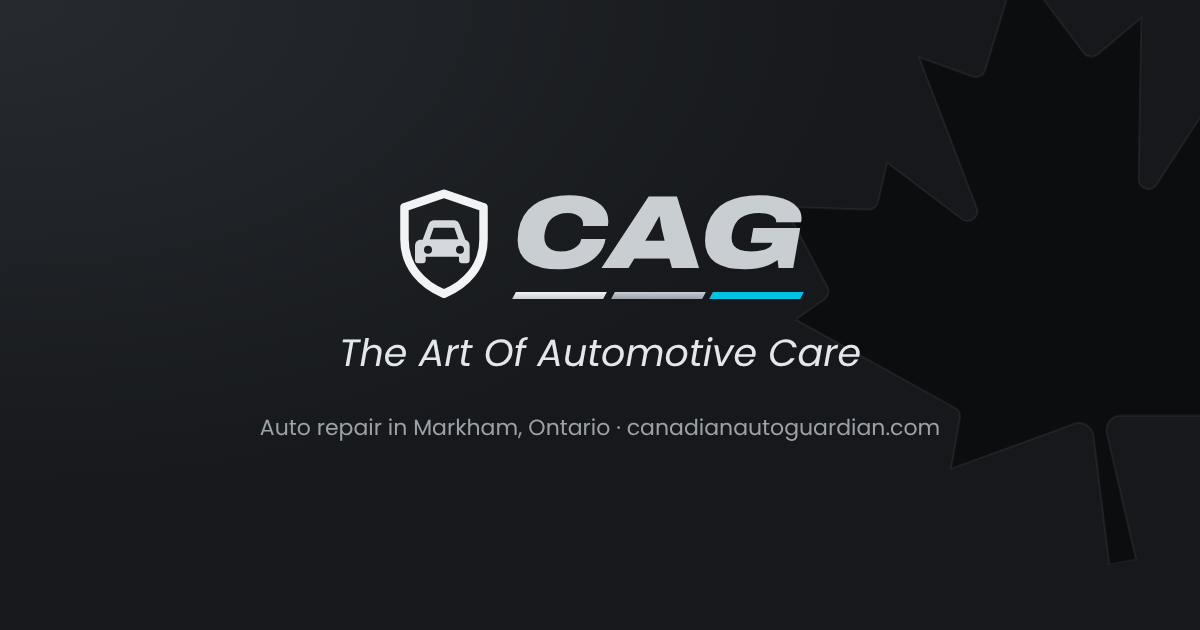
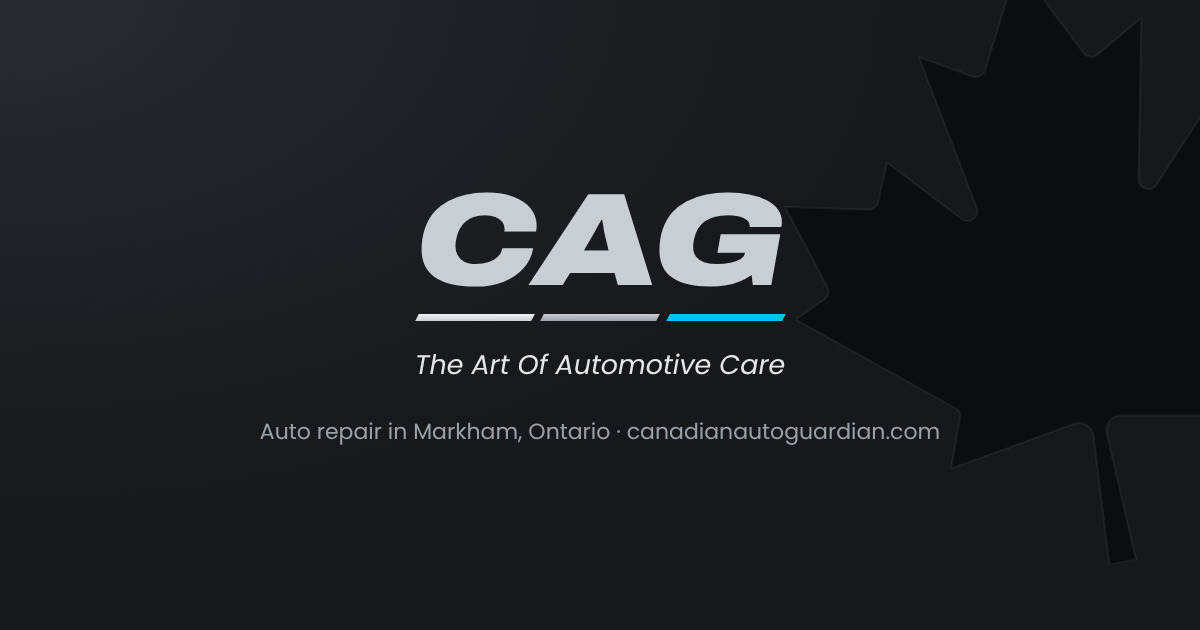
Add files via upload

Changed region(s): [[0.3083, 0.3016, 0.6783, 0.5127], [0.2775, 0.5127, 0.74, 0.6032], [0.2158, 0.6635, 0.8017, 0.7238]]

diff --git a/index.html b/index.html
@@ -18,8 +18,9 @@
 <meta property="og:image:alt" content="Canadian Auto Guardian: The Art Of Automotive Care. Auto repair in Markham, Ontario.">
 <meta name="twitter:card" content="summary_large_image">
 <meta name="twitter:image" content="https://www.canadianautoguardian.com/og-image.png">
-<link rel="icon" href="/favicon.svg" type="image/svg+xml">
-<link rel="stylesheet" href="/styles.css">
+<link rel="icon" href="/favicon.png" type="image/png">
+<link rel="apple-touch-icon" href="/apple-touch-icon.png">
+<link rel="stylesheet" href="/styles.css?v=20261103b">
 <script type="application/ld+json">
 {
   "@context": "https://schema.org",
@@ -119,7 +120,7 @@
 <body>
 <header class="site">
   <div class="nav">
-    <a href="/" class="brand" aria-label="Canadian Auto Guardian home"><svg viewBox="0 0 34 40" aria-hidden="true" xmlns="http://www.w3.org/2000/svg"><path d="M17 2.4 L31 7.2 V18.5 C31 28 24.8 34.6 17 37.8 C9.2 34.6 3 28 3 18.5 V7.2 Z" fill="none" stroke="#F1F3F5" stroke-width="3" stroke-linejoin="round"/><path d="M10.6 19.4 l1.7-4.6 a2 2 0 0 1 1.9-1.3 h5.6 a2 2 0 0 1 1.9 1.3 l1.7 4.6 a2 2 0 0 1 1.3 1.9 v4.2 a.9.9 0 0 1-.9.9 h-1.4 a.9.9 0 0 1-.9-.9 v-1 h-10 v1 a.9.9 0 0 1-.9.9 h-1.4 a.9.9 0 0 1-.9-.9 v-4.2 a2 2 0 0 1 1.3-1.9 Z M12.7 19.2 h8.6 l-1.2-3.4 h-6.2 Z M12.2 21.2 a1.2 1.2 0 1 0 0 2.4 a1.2 1.2 0 1 0 0-2.4 Z M21.8 21.2 a1.2 1.2 0 1 0 0 2.4 a1.2 1.2 0 1 0 0-2.4 Z" fill="#D5D9DD" fill-rule="evenodd" transform="translate(17 20.6) scale(1.18) translate(-17 -21)"/></svg><span class="wordmark"><span class="wm-cag">CAG</span><span class="wm-stripes"><i></i><i></i><i></i></span><span class="wm-name wm-slogan">The Art Of Automotive Care</span></span></a>
+    <a href="/" class="brand" aria-label="Canadian Auto Guardian home"><span class="wordmark"><span class="wm-cag">CAG</span><span class="wm-stripes"><i></i><i></i><i></i></span><span class="wm-name wm-slogan">The Art Of Automotive Care</span></span></a>
     <ul class="nav-links" id="nav-links">
       <li><a href="/" aria-current="page">Home</a></li>
       <li><a href="/services">Services</a></li>
@@ -212,7 +213,7 @@
   <div class="wrap">
     <div class="footer-grid">
       <div>
-        <a href="/" class="brand" aria-label="Canadian Auto Guardian home"><svg viewBox="0 0 34 40" aria-hidden="true" xmlns="http://www.w3.org/2000/svg"><path d="M17 2.4 L31 7.2 V18.5 C31 28 24.8 34.6 17 37.8 C9.2 34.6 3 28 3 18.5 V7.2 Z" fill="none" stroke="#F1F3F5" stroke-width="3" stroke-linejoin="round"/><path d="M10.6 19.4 l1.7-4.6 a2 2 0 0 1 1.9-1.3 h5.6 a2 2 0 0 1 1.9 1.3 l1.7 4.6 a2 2 0 0 1 1.3 1.9 v4.2 a.9.9 0 0 1-.9.9 h-1.4 a.9.9 0 0 1-.9-.9 v-1 h-10 v1 a.9.9 0 0 1-.9.9 h-1.4 a.9.9 0 0 1-.9-.9 v-4.2 a2 2 0 0 1 1.3-1.9 Z M12.7 19.2 h8.6 l-1.2-3.4 h-6.2 Z M12.2 21.2 a1.2 1.2 0 1 0 0 2.4 a1.2 1.2 0 1 0 0-2.4 Z M21.8 21.2 a1.2 1.2 0 1 0 0 2.4 a1.2 1.2 0 1 0 0-2.4 Z" fill="#D5D9DD" fill-rule="evenodd" transform="translate(17 20.6) scale(1.18) translate(-17 -21)"/></svg><span class="wordmark"><span class="wm-cag">CAG</span><span class="wm-stripes"><i></i><i></i><i></i></span><span class="wm-name wm-slogan">The Art Of Automotive Care</span></span></a>
+        <a href="/" class="brand" aria-label="Canadian Auto Guardian home"><span class="wordmark"><span class="wm-cag">CAG</span><span class="wm-stripes"><i></i><i></i><i></i></span><span class="wm-name wm-slogan">The Art Of Automotive Care</span></span></a>
         <p style="margin-top:14px;">Your trusted auto repair shop in Markham, Ontario.</p>
       </div>
       <div>

diff --git a/services.html b/services.html
@@ -18,8 +18,9 @@
 <meta property="og:image:alt" content="Canadian Auto Guardian: The Art Of Automotive Care. Auto repair in Markham, Ontario.">
 <meta name="twitter:card" content="summary_large_image">
 <meta name="twitter:image" content="https://www.canadianautoguardian.com/og-image.png">
-<link rel="icon" href="/favicon.svg" type="image/svg+xml">
-<link rel="stylesheet" href="/styles.css">
+<link rel="icon" href="/favicon.png" type="image/png">
+<link rel="apple-touch-icon" href="/apple-touch-icon.png">
+<link rel="stylesheet" href="/styles.css?v=20261103b">
 <script type="application/ld+json">
 {
   "@context": "https://schema.org",
@@ -63,7 +64,7 @@
 <body>
 <header class="site">
   <div class="nav">
-    <a href="/" class="brand" aria-label="Canadian Auto Guardian home"><svg viewBox="0 0 34 40" aria-hidden="true" xmlns="http://www.w3.org/2000/svg"><path d="M17 2.4 L31 7.2 V18.5 C31 28 24.8 34.6 17 37.8 C9.2 34.6 3 28 3 18.5 V7.2 Z" fill="none" stroke="#F1F3F5" stroke-width="3" stroke-linejoin="round"/><path d="M10.6 19.4 l1.7-4.6 a2 2 0 0 1 1.9-1.3 h5.6 a2 2 0 0 1 1.9 1.3 l1.7 4.6 a2 2 0 0 1 1.3 1.9 v4.2 a.9.9 0 0 1-.9.9 h-1.4 a.9.9 0 0 1-.9-.9 v-1 h-10 v1 a.9.9 0 0 1-.9.9 h-1.4 a.9.9 0 0 1-.9-.9 v-4.2 a2 2 0 0 1 1.3-1.9 Z M12.7 19.2 h8.6 l-1.2-3.4 h-6.2 Z M12.2 21.2 a1.2 1.2 0 1 0 0 2.4 a1.2 1.2 0 1 0 0-2.4 Z M21.8 21.2 a1.2 1.2 0 1 0 0 2.4 a1.2 1.2 0 1 0 0-2.4 Z" fill="#D5D9DD" fill-rule="evenodd" transform="translate(17 20.6) scale(1.18) translate(-17 -21)"/></svg><span class="wordmark"><span class="wm-cag">CAG</span><span class="wm-stripes"><i></i><i></i><i></i></span><span class="wm-name wm-slogan">The Art Of Automotive Care</span></span></a>
+    <a href="/" class="brand" aria-label="Canadian Auto Guardian home"><span class="wordmark"><span class="wm-cag">CAG</span><span class="wm-stripes"><i></i><i></i><i></i></span><span class="wm-name wm-slogan">The Art Of Automotive Care</span></span></a>
     <ul class="nav-links" id="nav-links">
       <li><a href="/">Home</a></li>
       <li><a href="/services" aria-current="page">Services</a></li>
@@ -157,7 +158,7 @@
   <div class="wrap">
     <div class="footer-grid">
       <div>
-        <a href="/" class="brand" aria-label="Canadian Auto Guardian home"><svg viewBox="0 0 34 40" aria-hidden="true" xmlns="http://www.w3.org/2000/svg"><path d="M17 2.4 L31 7.2 V18.5 C31 28 24.8 34.6 17 37.8 C9.2 34.6 3 28 3 18.5 V7.2 Z" fill="none" stroke="#F1F3F5" stroke-width="3" stroke-linejoin="round"/><path d="M10.6 19.4 l1.7-4.6 a2 2 0 0 1 1.9-1.3 h5.6 a2 2 0 0 1 1.9 1.3 l1.7 4.6 a2 2 0 0 1 1.3 1.9 v4.2 a.9.9 0 0 1-.9.9 h-1.4 a.9.9 0 0 1-.9-.9 v-1 h-10 v1 a.9.9 0 0 1-.9.9 h-1.4 a.9.9 0 0 1-.9-.9 v-4.2 a2 2 0 0 1 1.3-1.9 Z M12.7 19.2 h8.6 l-1.2-3.4 h-6.2 Z M12.2 21.2 a1.2 1.2 0 1 0 0 2.4 a1.2 1.2 0 1 0 0-2.4 Z M21.8 21.2 a1.2 1.2 0 1 0 0 2.4 a1.2 1.2 0 1 0 0-2.4 Z" fill="#D5D9DD" fill-rule="evenodd" transform="translate(17 20.6) scale(1.18) translate(-17 -21)"/></svg><span class="wordmark"><span class="wm-cag">CAG</span><span class="wm-stripes"><i></i><i></i><i></i></span><span class="wm-name wm-slogan">The Art Of Automotive Care</span></span></a>
+        <a href="/" class="brand" aria-label="Canadian Auto Guardian home"><span class="wordmark"><span class="wm-cag">CAG</span><span class="wm-stripes"><i></i><i></i><i></i></span><span class="wm-name wm-slogan">The Art Of Automotive Care</span></span></a>
         <p style="margin-top:14px;">Your trusted auto repair shop in Markham, Ontario.</p>
       </div>
       <div>

diff --git a/about.html b/about.html
@@ -18,8 +18,9 @@
 <meta property="og:image:alt" content="Canadian Auto Guardian: The Art Of Automotive Care. Auto repair in Markham, Ontario.">
 <meta name="twitter:card" content="summary_large_image">
 <meta name="twitter:image" content="https://www.canadianautoguardian.com/og-image.png">
-<link rel="icon" href="/favicon.svg" type="image/svg+xml">
-<link rel="stylesheet" href="/styles.css">
+<link rel="icon" href="/favicon.png" type="image/png">
+<link rel="apple-touch-icon" href="/apple-touch-icon.png">
+<link rel="stylesheet" href="/styles.css?v=20261103b">
 <script type="application/ld+json">
 {
   "@context": "https://schema.org",
@@ -63,7 +64,7 @@
 <body>
 <header class="site">
   <div class="nav">
-    <a href="/" class="brand" aria-label="Canadian Auto Guardian home"><svg viewBox="0 0 34 40" aria-hidden="true" xmlns="http://www.w3.org/2000/svg"><path d="M17 2.4 L31 7.2 V18.5 C31 28 24.8 34.6 17 37.8 C9.2 34.6 3 28 3 18.5 V7.2 Z" fill="none" stroke="#F1F3F5" stroke-width="3" stroke-linejoin="round"/><path d="M10.6 19.4 l1.7-4.6 a2 2 0 0 1 1.9-1.3 h5.6 a2 2 0 0 1 1.9 1.3 l1.7 4.6 a2 2 0 0 1 1.3 1.9 v4.2 a.9.9 0 0 1-.9.9 h-1.4 a.9.9 0 0 1-.9-.9 v-1 h-10 v1 a.9.9 0 0 1-.9.9 h-1.4 a.9.9 0 0 1-.9-.9 v-4.2 a2 2 0 0 1 1.3-1.9 Z M12.7 19.2 h8.6 l-1.2-3.4 h-6.2 Z M12.2 21.2 a1.2 1.2 0 1 0 0 2.4 a1.2 1.2 0 1 0 0-2.4 Z M21.8 21.2 a1.2 1.2 0 1 0 0 2.4 a1.2 1.2 0 1 0 0-2.4 Z" fill="#D5D9DD" fill-rule="evenodd" transform="translate(17 20.6) scale(1.18) translate(-17 -21)"/></svg><span class="wordmark"><span class="wm-cag">CAG</span><span class="wm-stripes"><i></i><i></i><i></i></span><span class="wm-name wm-slogan">The Art Of Automotive Care</span></span></a>
+    <a href="/" class="brand" aria-label="Canadian Auto Guardian home"><span class="wordmark"><span class="wm-cag">CAG</span><span class="wm-stripes"><i></i><i></i><i></i></span><span class="wm-name wm-slogan">The Art Of Automotive Care</span></span></a>
     <ul class="nav-links" id="nav-links">
       <li><a href="/">Home</a></li>
       <li><a href="/services">Services</a></li>
@@ -118,7 +119,7 @@
   <div class="wrap">
     <div class="footer-grid">
       <div>
-        <a href="/" class="brand" aria-label="Canadian Auto Guardian home"><svg viewBox="0 0 34 40" aria-hidden="true" xmlns="http://www.w3.org/2000/svg"><path d="M17 2.4 L31 7.2 V18.5 C31 28 24.8 34.6 17 37.8 C9.2 34.6 3 28 3 18.5 V7.2 Z" fill="none" stroke="#F1F3F5" stroke-width="3" stroke-linejoin="round"/><path d="M10.6 19.4 l1.7-4.6 a2 2 0 0 1 1.9-1.3 h5.6 a2 2 0 0 1 1.9 1.3 l1.7 4.6 a2 2 0 0 1 1.3 1.9 v4.2 a.9.9 0 0 1-.9.9 h-1.4 a.9.9 0 0 1-.9-.9 v-1 h-10 v1 a.9.9 0 0 1-.9.9 h-1.4 a.9.9 0 0 1-.9-.9 v-4.2 a2 2 0 0 1 1.3-1.9 Z M12.7 19.2 h8.6 l-1.2-3.4 h-6.2 Z M12.2 21.2 a1.2 1.2 0 1 0 0 2.4 a1.2 1.2 0 1 0 0-2.4 Z M21.8 21.2 a1.2 1.2 0 1 0 0 2.4 a1.2 1.2 0 1 0 0-2.4 Z" fill="#D5D9DD" fill-rule="evenodd" transform="translate(17 20.6) scale(1.18) translate(-17 -21)"/></svg><span class="wordmark"><span class="wm-cag">CAG</span><span class="wm-stripes"><i></i><i></i><i></i></span><span class="wm-name wm-slogan">The Art Of Automotive Care</span></span></a>
+        <a href="/" class="brand" aria-label="Canadian Auto Guardian home"><span class="wordmark"><span class="wm-cag">CAG</span><span class="wm-stripes"><i></i><i></i><i></i></span><span class="wm-name wm-slogan">The Art Of Automotive Care</span></span></a>
         <p style="margin-top:14px;">Your trusted auto repair shop in Markham, Ontario.</p>
       </div>
       <div>

diff --git a/contact.html b/contact.html
@@ -18,8 +18,9 @@
 <meta property="og:image:alt" content="Canadian Auto Guardian: The Art Of Automotive Care. Auto repair in Markham, Ontario.">
 <meta name="twitter:card" content="summary_large_image">
 <meta name="twitter:image" content="https://www.canadianautoguardian.com/og-image.png">
-<link rel="icon" href="/favicon.svg" type="image/svg+xml">
-<link rel="stylesheet" href="/styles.css">
+<link rel="icon" href="/favicon.png" type="image/png">
+<link rel="apple-touch-icon" href="/apple-touch-icon.png">
+<link rel="stylesheet" href="/styles.css?v=20261103b">
 <script type="application/ld+json">
 {
   "@context": "https://schema.org",
@@ -63,7 +64,7 @@
 <body>
 <header class="site">
   <div class="nav">
-    <a href="/" class="brand" aria-label="Canadian Auto Guardian home"><svg viewBox="0 0 34 40" aria-hidden="true" xmlns="http://www.w3.org/2000/svg"><path d="M17 2.4 L31 7.2 V18.5 C31 28 24.8 34.6 17 37.8 C9.2 34.6 3 28 3 18.5 V7.2 Z" fill="none" stroke="#F1F3F5" stroke-width="3" stroke-linejoin="round"/><path d="M10.6 19.4 l1.7-4.6 a2 2 0 0 1 1.9-1.3 h5.6 a2 2 0 0 1 1.9 1.3 l1.7 4.6 a2 2 0 0 1 1.3 1.9 v4.2 a.9.9 0 0 1-.9.9 h-1.4 a.9.9 0 0 1-.9-.9 v-1 h-10 v1 a.9.9 0 0 1-.9.9 h-1.4 a.9.9 0 0 1-.9-.9 v-4.2 a2 2 0 0 1 1.3-1.9 Z M12.7 19.2 h8.6 l-1.2-3.4 h-6.2 Z M12.2 21.2 a1.2 1.2 0 1 0 0 2.4 a1.2 1.2 0 1 0 0-2.4 Z M21.8 21.2 a1.2 1.2 0 1 0 0 2.4 a1.2 1.2 0 1 0 0-2.4 Z" fill="#D5D9DD" fill-rule="evenodd" transform="translate(17 20.6) scale(1.18) translate(-17 -21)"/></svg><span class="wordmark"><span class="wm-cag">CAG</span><span class="wm-stripes"><i></i><i></i><i></i></span><span class="wm-name wm-slogan">The Art Of Automotive Care</span></span></a>
+    <a href="/" class="brand" aria-label="Canadian Auto Guardian home"><span class="wordmark"><span class="wm-cag">CAG</span><span class="wm-stripes"><i></i><i></i><i></i></span><span class="wm-name wm-slogan">The Art Of Automotive Care</span></span></a>
     <ul class="nav-links" id="nav-links">
       <li><a href="/">Home</a></li>
       <li><a href="/services">Services</a></li>
@@ -170,7 +171,7 @@
   <div class="wrap">
     <div class="footer-grid">
       <div>
-        <a href="/" class="brand" aria-label="Canadian Auto Guardian home"><svg viewBox="0 0 34 40" aria-hidden="true" xmlns="http://www.w3.org/2000/svg"><path d="M17 2.4 L31 7.2 V18.5 C31 28 24.8 34.6 17 37.8 C9.2 34.6 3 28 3 18.5 V7.2 Z" fill="none" stroke="#F1F3F5" stroke-width="3" stroke-linejoin="round"/><path d="M10.6 19.4 l1.7-4.6 a2 2 0 0 1 1.9-1.3 h5.6 a2 2 0 0 1 1.9 1.3 l1.7 4.6 a2 2 0 0 1 1.3 1.9 v4.2 a.9.9 0 0 1-.9.9 h-1.4 a.9.9 0 0 1-.9-.9 v-1 h-10 v1 a.9.9 0 0 1-.9.9 h-1.4 a.9.9 0 0 1-.9-.9 v-4.2 a2 2 0 0 1 1.3-1.9 Z M12.7 19.2 h8.6 l-1.2-3.4 h-6.2 Z M12.2 21.2 a1.2 1.2 0 1 0 0 2.4 a1.2 1.2 0 1 0 0-2.4 Z M21.8 21.2 a1.2 1.2 0 1 0 0 2.4 a1.2 1.2 0 1 0 0-2.4 Z" fill="#D5D9DD" fill-rule="evenodd" transform="translate(17 20.6) scale(1.18) translate(-17 -21)"/></svg><span class="wordmark"><span class="wm-cag">CAG</span><span class="wm-stripes"><i></i><i></i><i></i></span><span class="wm-name wm-slogan">The Art Of Automotive Care</span></span></a>
+        <a href="/" class="brand" aria-label="Canadian Auto Guardian home"><span class="wordmark"><span class="wm-cag">CAG</span><span class="wm-stripes"><i></i><i></i><i></i></span><span class="wm-name wm-slogan">The Art Of Automotive Care</span></span></a>
         <p style="margin-top:14px;">Your trusted auto repair shop in Markham, Ontario.</p>
       </div>
       <div>

diff --git a/insurance.html b/insurance.html
@@ -18,8 +18,9 @@
 <meta property="og:image:alt" content="Canadian Auto Guardian: The Art Of Automotive Care. Auto repair in Markham, Ontario.">
 <meta name="twitter:card" content="summary_large_image">
 <meta name="twitter:image" content="https://www.canadianautoguardian.com/og-image.png">
-<link rel="icon" href="/favicon.svg" type="image/svg+xml">
-<link rel="stylesheet" href="/styles.css">
+<link rel="icon" href="/favicon.png" type="image/png">
+<link rel="apple-touch-icon" href="/apple-touch-icon.png">
+<link rel="stylesheet" href="/styles.css?v=20261103b">
 <script type="application/ld+json">
 {
   "@context": "https://schema.org",
@@ -63,7 +64,7 @@
 <body>
 <header class="site">
   <div class="nav">
-    <a href="/" class="brand" aria-label="Canadian Auto Guardian home"><svg viewBox="0 0 34 40" aria-hidden="true" xmlns="http://www.w3.org/2000/svg"><path d="M17 2.4 L31 7.2 V18.5 C31 28 24.8 34.6 17 37.8 C9.2 34.6 3 28 3 18.5 V7.2 Z" fill="none" stroke="#F1F3F5" stroke-width="3" stroke-linejoin="round"/><path d="M10.6 19.4 l1.7-4.6 a2 2 0 0 1 1.9-1.3 h5.6 a2 2 0 0 1 1.9 1.3 l1.7 4.6 a2 2 0 0 1 1.3 1.9 v4.2 a.9.9 0 0 1-.9.9 h-1.4 a.9.9 0 0 1-.9-.9 v-1 h-10 v1 a.9.9 0 0 1-.9.9 h-1.4 a.9.9 0 0 1-.9-.9 v-4.2 a2 2 0 0 1 1.3-1.9 Z M12.7 19.2 h8.6 l-1.2-3.4 h-6.2 Z M12.2 21.2 a1.2 1.2 0 1 0 0 2.4 a1.2 1.2 0 1 0 0-2.4 Z M21.8 21.2 a1.2 1.2 0 1 0 0 2.4 a1.2 1.2 0 1 0 0-2.4 Z" fill="#D5D9DD" fill-rule="evenodd" transform="translate(17 20.6) scale(1.18) translate(-17 -21)"/></svg><span class="wordmark"><span class="wm-cag">CAG</span><span class="wm-stripes"><i></i><i></i><i></i></span><span class="wm-name wm-slogan">The Art Of Automotive Care</span></span></a>
+    <a href="/" class="brand" aria-label="Canadian Auto Guardian home"><span class="wordmark"><span class="wm-cag">CAG</span><span class="wm-stripes"><i></i><i></i><i></i></span><span class="wm-name wm-slogan">The Art Of Automotive Care</span></span></a>
     <ul class="nav-links" id="nav-links">
       <li><a href="/">Home</a></li>
       <li><a href="/services">Services</a></li>
@@ -159,7 +160,7 @@
   <div class="wrap">
     <div class="footer-grid">
       <div>
-        <a href="/" class="brand" aria-label="Canadian Auto Guardian home"><svg viewBox="0 0 34 40" aria-hidden="true" xmlns="http://www.w3.org/2000/svg"><path d="M17 2.4 L31 7.2 V18.5 C31 28 24.8 34.6 17 37.8 C9.2 34.6 3 28 3 18.5 V7.2 Z" fill="none" stroke="#F1F3F5" stroke-width="3" stroke-linejoin="round"/><path d="M10.6 19.4 l1.7-4.6 a2 2 0 0 1 1.9-1.3 h5.6 a2 2 0 0 1 1.9 1.3 l1.7 4.6 a2 2 0 0 1 1.3 1.9 v4.2 a.9.9 0 0 1-.9.9 h-1.4 a.9.9 0 0 1-.9-.9 v-1 h-10 v1 a.9.9 0 0 1-.9.9 h-1.4 a.9.9 0 0 1-.9-.9 v-4.2 a2 2 0 0 1 1.3-1.9 Z M12.7 19.2 h8.6 l-1.2-3.4 h-6.2 Z M12.2 21.2 a1.2 1.2 0 1 0 0 2.4 a1.2 1.2 0 1 0 0-2.4 Z M21.8 21.2 a1.2 1.2 0 1 0 0 2.4 a1.2 1.2 0 1 0 0-2.4 Z" fill="#D5D9DD" fill-rule="evenodd" transform="translate(17 20.6) scale(1.18) translate(-17 -21)"/></svg><span class="wordmark"><span class="wm-cag">CAG</span><span class="wm-stripes"><i></i><i></i><i></i></span><span class="wm-name wm-slogan">The Art Of Automotive Care</span></span></a>
+        <a href="/" class="brand" aria-label="Canadian Auto Guardian home"><span class="wordmark"><span class="wm-cag">CAG</span><span class="wm-stripes"><i></i><i></i><i></i></span><span class="wm-name wm-slogan">The Art Of Automotive Care</span></span></a>
         <p style="margin-top:14px;">Your trusted auto repair shop in Markham, Ontario.</p>
       </div>
       <div>

diff --git a/404.html b/404.html
@@ -18,13 +18,14 @@
 <meta property="og:image:alt" content="Canadian Auto Guardian: The Art Of Automotive Care. Auto repair in Markham, Ontario.">
 <meta name="twitter:card" content="summary_large_image">
 <meta name="twitter:image" content="https://www.canadianautoguardian.com/og-image.png">
-<link rel="icon" href="/favicon.svg" type="image/svg+xml">
-<link rel="stylesheet" href="/styles.css">
+<link rel="icon" href="/favicon.png" type="image/png">
+<link rel="apple-touch-icon" href="/apple-touch-icon.png">
+<link rel="stylesheet" href="/styles.css?v=20261103b">
 </head>
 <body>
 <header class="site">
   <div class="nav">
-    <a href="/" class="brand" aria-label="Canadian Auto Guardian home"><svg viewBox="0 0 34 40" aria-hidden="true" xmlns="http://www.w3.org/2000/svg"><path d="M17 2.4 L31 7.2 V18.5 C31 28 24.8 34.6 17 37.8 C9.2 34.6 3 28 3 18.5 V7.2 Z" fill="none" stroke="#F1F3F5" stroke-width="3" stroke-linejoin="round"/><path d="M10.6 19.4 l1.7-4.6 a2 2 0 0 1 1.9-1.3 h5.6 a2 2 0 0 1 1.9 1.3 l1.7 4.6 a2 2 0 0 1 1.3 1.9 v4.2 a.9.9 0 0 1-.9.9 h-1.4 a.9.9 0 0 1-.9-.9 v-1 h-10 v1 a.9.9 0 0 1-.9.9 h-1.4 a.9.9 0 0 1-.9-.9 v-4.2 a2 2 0 0 1 1.3-1.9 Z M12.7 19.2 h8.6 l-1.2-3.4 h-6.2 Z M12.2 21.2 a1.2 1.2 0 1 0 0 2.4 a1.2 1.2 0 1 0 0-2.4 Z M21.8 21.2 a1.2 1.2 0 1 0 0 2.4 a1.2 1.2 0 1 0 0-2.4 Z" fill="#D5D9DD" fill-rule="evenodd" transform="translate(17 20.6) scale(1.18) translate(-17 -21)"/></svg><span class="wordmark"><span class="wm-cag">CAG</span><span class="wm-stripes"><i></i><i></i><i></i></span><span class="wm-name wm-slogan">The Art Of Automotive Care</span></span></a>
+    <a href="/" class="brand" aria-label="Canadian Auto Guardian home"><span class="wordmark"><span class="wm-cag">CAG</span><span class="wm-stripes"><i></i><i></i><i></i></span><span class="wm-name wm-slogan">The Art Of Automotive Care</span></span></a>
     <ul class="nav-links" id="nav-links">
       <li><a href="/">Home</a></li>
       <li><a href="/services">Services</a></li>
@@ -49,7 +50,7 @@
   <div class="wrap">
     <div class="footer-grid">
       <div>
-        <a href="/" class="brand" aria-label="Canadian Auto Guardian home"><svg viewBox="0 0 34 40" aria-hidden="true" xmlns="http://www.w3.org/2000/svg"><path d="M17 2.4 L31 7.2 V18.5 C31 28 24.8 34.6 17 37.8 C9.2 34.6 3 28 3 18.5 V7.2 Z" fill="none" stroke="#F1F3F5" stroke-width="3" stroke-linejoin="round"/><path d="M10.6 19.4 l1.7-4.6 a2 2 0 0 1 1.9-1.3 h5.6 a2 2 0 0 1 1.9 1.3 l1.7 4.6 a2 2 0 0 1 1.3 1.9 v4.2 a.9.9 0 0 1-.9.9 h-1.4 a.9.9 0 0 1-.9-.9 v-1 h-10 v1 a.9.9 0 0 1-.9.9 h-1.4 a.9.9 0 0 1-.9-.9 v-4.2 a2 2 0 0 1 1.3-1.9 Z M12.7 19.2 h8.6 l-1.2-3.4 h-6.2 Z M12.2 21.2 a1.2 1.2 0 1 0 0 2.4 a1.2 1.2 0 1 0 0-2.4 Z M21.8 21.2 a1.2 1.2 0 1 0 0 2.4 a1.2 1.2 0 1 0 0-2.4 Z" fill="#D5D9DD" fill-rule="evenodd" transform="translate(17 20.6) scale(1.18) translate(-17 -21)"/></svg><span class="wordmark"><span class="wm-cag">CAG</span><span class="wm-stripes"><i></i><i></i><i></i></span><span class="wm-name wm-slogan">The Art Of Automotive Care</span></span></a>
+        <a href="/" class="brand" aria-label="Canadian Auto Guardian home"><span class="wordmark"><span class="wm-cag">CAG</span><span class="wm-stripes"><i></i><i></i><i></i></span><span class="wm-name wm-slogan">The Art Of Automotive Care</span></span></a>
         <p style="margin-top:14px;">Your trusted auto repair shop in Markham, Ontario.</p>
       </div>
       <div>

diff --git a/styles.css b/styles.css
@@ -355,3 +355,22 @@ h2.slogan { font-size: clamp(1.6rem, 3vw, 2.2rem); line-height: 1.2; }
 .field-error { display: none; margin-top: 6px; font-size: .85rem; line-height: 1.4; color: #FF8A8A; }
 .field input.is-invalid { border-color: #D86A6A; box-shadow: 0 0 0 1px #D86A6A; }
 .page-hero p.warranty-line .warranty-term { color: var(--aqua); font-weight: 600; }
+
+/* Logo without the shield: larger CAG, stripes matched to the lettering */
+.wm-cag { font-size: 2.6rem; }
+.wm-stripes { gap: 4px; padding-left: 1px; }
+.wm-stripes i { width: 35.5px; }
+@media (max-width: 560px) {
+  .wm-cag { font-size: 2.1rem; }
+  .wm-stripes i { width: 28.0px; }
+}
+
+/* Slogan fitted to the exact width of CAG */
+.wm-cag { font-size: 53.9px; }
+.wm-stripes i { width: 47.0px; }
+.wm-name.wm-slogan { font-size: 11px; }
+@media (max-width: 560px) {
+  .wm-cag { font-size: 49px; }
+  .wm-stripes i { width: 42.4px; }
+  .wm-name.wm-slogan { font-size: 10px; }
+}
